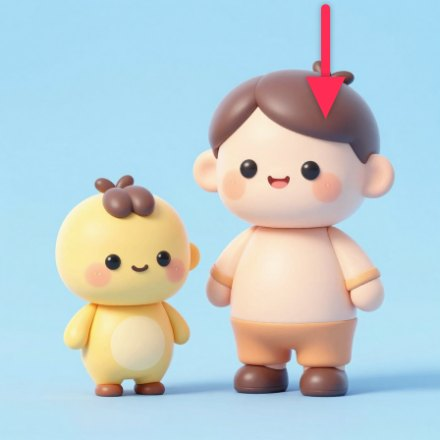
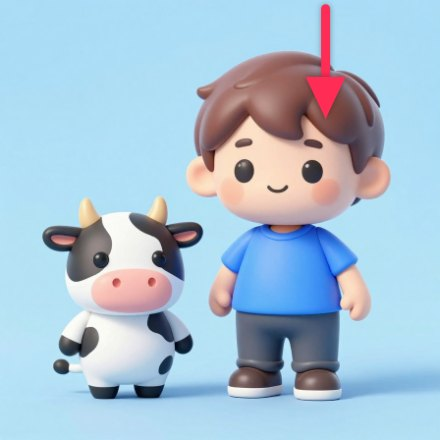
feat: 清除快取掣、每頁設定掣、人+牛圖、8 個 AI 背景圖、植物畫靚、掟生果 1:1 跟手

diff --git a/assets/js/screen-explore.js b/assets/js/screen-explore.js
@@ -132,39 +132,73 @@
   }
 
   /* ----------------------------------------------------- 遮擋物（草／水草／樹叢） */
+  /* 遮住影子嘅前景植物：幾棵分開嘅植物，中間留空隙（影子會喺空隙見到） */
   function occluderSvg(theme) {
-    // 注意：圖案要填滿整個 viewBox（0–100），咁「遮擋高度」先等於真實覆蓋高度
     if (theme === 'underwater') {
-      return `<svg viewBox="0 0 100 100" preserveAspectRatio="none">
-        <path d="M4 100 Q0 46 10 4 Q14 -2 18 6 Q14 52 14 100 Z" fill="#1b7a5a"/>
-        <path d="M22 100 Q16 44 28 8 Q33 0 37 12 Q30 56 32 100 Z" fill="#2e9e74"/>
-        <path d="M44 100 Q40 40 52 6 Q57 -2 61 10 Q54 54 56 100 Z" fill="#1b7a5a"/>
-        <path d="M66 100 Q62 46 74 10 Q79 2 83 14 Q76 56 78 100 Z" fill="#3cb389"/>
-        <path d="M86 100 Q84 52 92 16 Q96 6 100 16 Q94 60 96 100 Z" fill="#2e9e74"/>
-        <ellipse cx="30" cy="72" rx="16" ry="10" fill="#43aa8b" opacity=".85"/>
-        <ellipse cx="70" cy="58" rx="14" ry="9" fill="#43aa8b" opacity=".85"/>
+      return `<svg viewBox="0 0 100 100" preserveAspectRatio="none" class="occ">
+        <defs>
+          <linearGradient id="sw1" x1="0" y1="1" x2="0" y2="0">
+            <stop offset="0" stop-color="#126b4d"/><stop offset=".5" stop-color="#35b07a"/><stop offset="1" stop-color="#8ce8b4"/>
+          </linearGradient>
+          <linearGradient id="sw2" x1="0" y1="1" x2="0" y2="0">
+            <stop offset="0" stop-color="#1a7a58"/><stop offset=".55" stop-color="#4ac48b"/><stop offset="1" stop-color="#b8f5cf"/>
+          </linearGradient>
+        </defs>
+        <g>
+          <path d="M5 100 C2 78 4 58 10 40 C12 34 16 36 15 43 C10 62 9 80 12 100 Z" fill="url(#sw1)"/>
+          <path d="M17 100 C14 70 17 44 25 22 C28 15 33 18 31 27 C24 48 22 74 26 100 Z" fill="url(#sw2)"/>
+          <path d="M35 100 C33 80 37 60 45 42 C48 36 52 39 50 46 C43 64 41 82 45 100 Z" fill="url(#sw1)"/>
+          <path d="M59 100 C57 72 61 46 70 26 C73 19 78 22 76 31 C69 52 66 76 70 100 Z" fill="url(#sw2)"/>
+          <path d="M81 100 C79 80 83 58 90 40 C93 34 97 37 95 44 C89 62 87 82 91 100 Z" fill="url(#sw1)"/>
+          <ellipse cx="18" cy="97" rx="20" ry="7" fill="#0e5c42" opacity=".75"/>
+          <ellipse cx="72" cy="97" rx="22" ry="7" fill="#0e5c42" opacity=".75"/>
+          <ellipse cx="24" cy="34" rx="2.4" ry="6" fill="#ffffff" opacity=".22"/>
+          <ellipse cx="68" cy="38" rx="2.4" ry="6" fill="#ffffff" opacity=".2"/>
+        </g>
       </svg>`;
     }
     if (theme === 'forest') {
-      return `<svg viewBox="0 0 100 100" preserveAspectRatio="none">
-        <ellipse cx="20" cy="52" rx="30" ry="46" fill="#2e7d32"/>
-        <ellipse cx="52" cy="44" rx="34" ry="44" fill="#43a047"/>
-        <ellipse cx="82" cy="54" rx="28" ry="44" fill="#2e7d32"/>
-        <ellipse cx="34" cy="82" rx="34" ry="24" fill="#1b5e20"/>
-        <ellipse cx="72" cy="86" rx="30" ry="22" fill="#388e3c"/>
-        <ellipse cx="52" cy="20" rx="16" ry="14" fill="#66bb6a" opacity=".9"/>
-        <ellipse cx="18" cy="24" rx="12" ry="12" fill="#66bb6a" opacity=".7"/>
+      return `<svg viewBox="0 0 100 100" preserveAspectRatio="none" class="occ">
+        <defs>
+          <radialGradient id="bush1" cx=".42" cy=".28" r=".85">
+            <stop offset="0" stop-color="#a8ec9a"/><stop offset=".5" stop-color="#4caf50"/><stop offset="1" stop-color="#1f5b24"/>
+          </radialGradient>
+          <radialGradient id="bush2" cx=".45" cy=".3" r=".85">
+            <stop offset="0" stop-color="#c2f2ac"/><stop offset=".5" stop-color="#5cbf5f"/><stop offset="1" stop-color="#255f28"/>
+          </radialGradient>
+        </defs>
+        <g>
+          <ellipse cx="17" cy="84" rx="19" ry="24" fill="url(#bush1)"/>
+          <ellipse cx="36" cy="90" rx="16" ry="18" fill="url(#bush2)"/>
+          <ellipse cx="60" cy="86" rx="18" ry="22" fill="url(#bush1)"/>
+          <ellipse cx="82" cy="90" rx="15" ry="18" fill="url(#bush2)"/>
+          <ellipse cx="24" cy="66" rx="7" ry="5" fill="#d9ffb0" opacity=".55"/>
+          <ellipse cx="66" cy="70" rx="6" ry="4" fill="#d9ffb0" opacity=".5"/>
+          <circle cx="46" cy="96" r="2" fill="#8fe08f" opacity=".8"/>
+          <circle cx="74" cy="96" r="1.7" fill="#8fe08f" opacity=".7"/>
+        </g>
       </svg>`;
     }
-    // grass
-    return `<svg viewBox="0 0 100 100" preserveAspectRatio="none">
-      <path d="M2 100 Q0 44 8 2 Q11 -4 14 4 Q10 48 12 100 Z" fill="#3d7a1f"/>
-      <path d="M16 100 Q14 38 24 0 Q28 -6 31 4 Q26 46 28 100 Z" fill="#6ab04c"/>
-      <path d="M32 100 Q31 46 42 4 Q46 -4 49 6 Q42 50 44 100 Z" fill="#3d7a1f"/>
-      <path d="M48 100 Q47 40 58 2 Q62 -6 65 4 Q58 48 60 100 Z" fill="#6ab04c"/>
-      <path d="M64 100 Q63 46 74 6 Q78 -2 81 8 Q74 52 76 100 Z" fill="#3d7a1f"/>
-      <path d="M80 100 Q80 44 90 10 Q94 2 97 12 Q90 56 92 100 Z" fill="#6ab04c"/>
-      <path d="M0 100 Q20 84 50 88 Q80 92 100 100 Z" fill="#2f6b1a"/>
+    // grass / savanna：幾條草葉，中間有罅
+    return `<svg viewBox="0 0 100 100" preserveAspectRatio="none" class="occ">
+      <defs>
+        <linearGradient id="gr1" x1="0" y1="1" x2="0" y2="0">
+          <stop offset="0" stop-color="#2f6315"/><stop offset=".55" stop-color="#6cb033"/><stop offset="1" stop-color="#c7e86a"/>
+        </linearGradient>
+        <linearGradient id="gr2" x1="0" y1="1" x2="0" y2="0">
+          <stop offset="0" stop-color="#3f7d1c"/><stop offset=".5" stop-color="#7cc13f"/><stop offset="1" stop-color="#e0f29a"/>
+        </linearGradient>
+      </defs>
+      <g>
+        <path d="M6 100 C4 76 8 54 16 34 C19 27 23 30 21 39 C14 58 12 80 16 100 Z" fill="url(#gr1)"/>
+        <path d="M22 100 C20 68 25 44 34 24 C37 17 41 21 39 30 C31 51 28 76 32 100 Z" fill="url(#gr2)"/>
+        <path d="M40 100 C38 80 43 60 51 42 C54 36 58 39 56 46 C49 64 47 82 51 100 Z" fill="url(#gr1)"/>
+        <path d="M58 100 C56 66 61 42 70 22 C73 15 77 19 75 28 C67 49 64 76 68 100 Z" fill="url(#gr2)"/>
+        <path d="M76 100 C74 78 79 56 87 36 C90 29 94 32 92 41 C85 60 83 82 87 100 Z" fill="url(#gr1)"/>
+        <path d="M6 100 C24 92 46 94 66 96 C80 98 90 99 96 100 Z" fill="#2a5c12"/>
+        <ellipse cx="30" cy="40" rx="3" ry="6" fill="#ffffff" opacity=".2"/>
+        <ellipse cx="72" cy="46" rx="2.6" ry="5" fill="#ffffff" opacity=".18"/>
+      </g>
     </svg>`;
   }
 

diff --git a/assets/css/feed.css b/assets/css/feed.css
@@ -315,3 +315,53 @@
   -webkit-tap-highlight-color: transparent;
 }
 .beat-hit[hidden] { display: none !important; }
+
+/* ===== 餵食畫面：同一個地方背景圖 ===== */
+#screen-feed.feed-beach {
+  background-image: linear-gradient(180deg, rgba(24, 12, 44, 0.28), rgba(24, 12, 44, 0.55)), url('../img/scenes/beach.jpg');
+  background-size: cover;
+  background-position: center bottom;
+  background-repeat: no-repeat;
+}
+#screen-feed.feed-sea {
+  background-image: linear-gradient(180deg, rgba(24, 12, 44, 0.28), rgba(24, 12, 44, 0.55)), url('../img/scenes/sea.jpg');
+  background-size: cover;
+  background-position: center bottom;
+  background-repeat: no-repeat;
+}
+#screen-feed.feed-underwater {
+  background-image: linear-gradient(180deg, rgba(24, 12, 44, 0.28), rgba(24, 12, 44, 0.55)), url('../img/scenes/underwater.jpg');
+  background-size: cover;
+  background-position: center bottom;
+  background-repeat: no-repeat;
+}
+#screen-feed.feed-river {
+  background-image: linear-gradient(180deg, rgba(24, 12, 44, 0.28), rgba(24, 12, 44, 0.55)), url('../img/scenes/river.jpg');
+  background-size: cover;
+  background-position: center bottom;
+  background-repeat: no-repeat;
+}
+#screen-feed.feed-forest {
+  background-image: linear-gradient(180deg, rgba(24, 12, 44, 0.28), rgba(24, 12, 44, 0.55)), url('../img/scenes/forest.jpg');
+  background-size: cover;
+  background-position: center bottom;
+  background-repeat: no-repeat;
+}
+#screen-feed.feed-grass {
+  background-image: linear-gradient(180deg, rgba(24, 12, 44, 0.28), rgba(24, 12, 44, 0.55)), url('../img/scenes/grass.jpg');
+  background-size: cover;
+  background-position: center bottom;
+  background-repeat: no-repeat;
+}
+#screen-feed.feed-desert {
+  background-image: linear-gradient(180deg, rgba(24, 12, 44, 0.28), rgba(24, 12, 44, 0.55)), url('../img/scenes/desert.jpg');
+  background-size: cover;
+  background-position: center bottom;
+  background-repeat: no-repeat;
+}
+#screen-feed.feed-snow {
+  background-image: linear-gradient(180deg, rgba(24, 12, 44, 0.28), rgba(24, 12, 44, 0.55)), url('../img/scenes/snow.jpg');
+  background-size: cover;
+  background-position: center bottom;
+  background-repeat: no-repeat;
+}

diff --git a/assets/css/games.css b/assets/css/games.css
@@ -710,3 +710,56 @@
 .gr-icon.gr-d { background: linear-gradient(160deg, #ffe0b2, #ffb74d); }
 .prompt-listen { font-size: clamp(52px, 16vw, 96px); line-height: 1; display: block; text-align: center; animation: listenPulse 1.6s ease-in-out infinite; }
 @keyframes listenPulse { 0%, 100% { transform: scale(1); opacity: .95; } 50% { transform: scale(1.08); opacity: 1; } }
+
+/* ===== 8 個地方嘅 AI 背景圖（cover，保留漸變做 fallback） ===== */
+.scene.theme-beach {
+  background-image: url('../img/scenes/beach.jpg');
+  background-size: cover;
+  background-position: center bottom;
+  background-repeat: no-repeat;
+}
+.scene.theme-sea {
+  background-image: url('../img/scenes/sea.jpg');
+  background-size: cover;
+  background-position: center bottom;
+  background-repeat: no-repeat;
+}
+.scene.theme-underwater {
+  background-image: url('../img/scenes/underwater.jpg');
+  background-size: cover;
+  background-position: center bottom;
+  background-repeat: no-repeat;
+}
+.scene.theme-river {
+  background-image: url('../img/scenes/river.jpg');
+  background-size: cover;
+  background-position: center bottom;
+  background-repeat: no-repeat;
+}
+.scene.theme-forest {
+  background-image: url('../img/scenes/forest.jpg');
+  background-size: cover;
+  background-position: center bottom;
+  background-repeat: no-repeat;
+}
+.scene.theme-grass {
+  background-image: url('../img/scenes/grass.jpg');
+  background-size: cover;
+  background-position: center bottom;
+  background-repeat: no-repeat;
+}
+.scene.theme-desert {
+  background-image: url('../img/scenes/desert.jpg');
+  background-size: cover;
+  background-position: center bottom;
+  background-repeat: no-repeat;
+}
+.scene.theme-snow {
+  background-image: url('../img/scenes/snow.jpg');
+  background-size: cover;
+  background-position: center bottom;
+  background-repeat: no-repeat;
+}
+
+/* 用咗真背景圖就唔需要舊嘅 SVG 裝飾 */
+.scene .scene-deco .deco { display: none !important; }

diff --git a/assets/js/data-vocab.js b/assets/js/data-vocab.js
@@ -184,7 +184,7 @@ window.VOCAB = {
       { zh: '姊', yue: '姐姐', py: 'zǐ', en: 'big sister', art: 'sister', arrow: 0.74, img: 'two cute cartoon girls standing side by side: on the LEFT a SMALL toddler girl in purple, on the RIGHT a BIG taller girl in red' },
       { zh: '男', yue: '男仔', py: 'nán', en: 'boy', art: 'boy', arrow: 0.74, img: 'two cute cartoon children standing side by side: on the LEFT a girl in a pink dress, on the RIGHT a boy in a blue t-shirt' },
       { zh: '女', yue: '女仔', py: 'nǚ', en: 'girl', art: 'girl', arrow: 0.74, img: 'two cute cartoon children standing side by side: on the LEFT a boy in a blue t-shirt, on the RIGHT a girl in a pink dress' },
-      { zh: '人', yue: '人', py: 'rén', en: 'person', art: 'person', arrow: 0.74, img: 'two cute cartoon people standing side by side: on the LEFT a small child, on the RIGHT a grown up adult' },
+      { zh: '人', yue: '人', py: 'rén', en: 'person', art: 'person', arrow: 0.74, img: 'a cute cartoon HUMAN person standing on the RIGHT: skin colour face, brown hair, blue t-shirt, grey trousers; a cute cartoon COW standing on the LEFT' },
       { zh: '小朋友', yue: '小朋友', py: 'xiǎo péng yǒu', en: 'child', art: 'child', arrow: 0.74, img: 'two cute cartoon people standing side by side: on the LEFT a tall grown up adult, on the RIGHT a small child' },
     ],
   },

diff --git a/assets/js/core.js b/assets/js/core.js
@@ -110,6 +110,26 @@
 
   function registerScreen(id, hooks) { screenHooks[id] = hooks || {}; }
 
+  const GEAR_HIDE = new Set(['boot', 'quiz', 'feed', 'reveal']);
+  function updateGear() {
+    let el = document.getElementById('gear-fab');
+    if (!el) {
+      el = document.createElement('button');
+      el.id = 'gear-fab';
+      el.className = 'gear-fab';
+      el.setAttribute('aria-label', '設定');
+      el.textContent = '⚙';
+      el.addEventListener('click', (ev) => {
+        ev.preventDefault();
+        ev.stopPropagation();
+        haptic();
+        if (state.screen !== 'settings') go('settings');
+      });
+      document.body.appendChild(el);
+    }
+    el.hidden = GEAR_HIDE.has(state.screen);
+  }
+
   function go(id, opts) {
     opts = opts || {};
     if (currentScreen === id && !opts.force) {
@@ -135,6 +155,7 @@
     }
     const h = screenHooks[id];
     if (h && h.enter) { try { h.enter(opts); } catch (e) { console.error(e); } }
+    updateGear();
     // 每次轉畫面之後套用顯示語言
     try { if (window.I18N && window.I18N.applyLang) setTimeout(() => window.I18N.applyLang(), 0); } catch (e) {}
   }

diff --git a/assets/js/screen-settings.js b/assets/js/screen-settings.js
@@ -104,6 +104,24 @@
         圖鑑：${st.got} / ${st.total} 隻動物（${st.pct}%）<br>
         餵食次數：${p.feedings || 0}　答題：${p.quizzes || 0} 次`;
     }
+    const cc = $('#set-clearcache');
+    if (cc) cc.addEventListener('click', async () => {
+      C.haptic();
+      cc.disabled = true;
+      cc.textContent = '清理中…';
+      try {
+        if ('serviceWorker' in navigator) {
+          const regs = await navigator.serviceWorker.getRegistrations();
+          await Promise.all(regs.map((r) => r.unregister()));
+        }
+        if (window.caches) {
+          const keys = await caches.keys();
+          await Promise.all(keys.map((k) => caches.delete(k)));
+        }
+      } catch (e) { console.warn('clear cache failed', e); }
+      const url = location.pathname + '?fresh=' + Date.now();
+      location.replace(url);
+    });
     const reset = $('#set-reset');
     if (reset) {
       reset.onclick = () => {

diff --git a/assets/js/screen-feed.js b/assets/js/screen-feed.js
@@ -722,9 +722,11 @@
         const dy = e.clientY - drag.y;
         basket.classList.remove('pulling');
         if (Math.abs(dy) > 26 && dy < 0) {
+          // 掟去手指放開嘅位置（1:1），限制喺圈附近
+          const cur = (F.circle && F.circle.x) ? F.circle : { x: g.cx, y: g.cy };
           const target = {
-            x: clamp(g.cx + dx * 2.6, g.cx - g.r * 1.6, g.cx + g.r * 1.6),
-            y: clamp(g.cy + dy * 1.2, g.cy - g.r * 1.1, g.cy + g.r * 1.1),
+            x: clamp(cur.x + dx * 0.95, cur.x - g.r * 1.5, cur.x + g.r * 1.5),
+            y: clamp(cur.y + dy * 0.95, cur.y - g.r * 1.2, cur.y + g.r * 1.2),
           };
           throwFruit(target);
         } else if (Math.hypot(dx, dy) < 20) {

diff --git a/assets/css/layout.css b/assets/css/layout.css
@@ -572,3 +572,24 @@ img.ai-shadow {
   background: #2a2320;
   opacity: 0.85;
 }
+
+/* 每頁都有嘅設定掣（右下角） */
+.gear-fab {
+  position: fixed;
+  right: 14px;
+  bottom: calc(14px + env(safe-area-inset-bottom, 0px));
+  width: 52px;
+  height: 52px;
+  border-radius: 50%;
+  border: 0;
+  display: grid;
+  place-items: center;
+  font-size: 24px;
+  background: rgba(255, 255, 255, 0.92);
+  box-shadow: 0 6px 18px rgba(40, 24, 80, 0.22);
+  z-index: 60;
+  cursor: pointer;
+  -webkit-tap-highlight-color: transparent;
+}
+.gear-fab:active { transform: scale(0.94); }
+.gear-fab[hidden] { display: none !important; }

diff --git a/index.html b/index.html
@@ -271,6 +271,8 @@
         <div class="set-group">
           <h3>進度</h3>
           <p class="set-note" id="set-progress-note"></p>
+          <button class="btn ghost" id="set-clearcache">🧹 清除快取並重新載入</button>
+          <p class="set-note">見到舊圖片／舊版面就撳呢個（唔會影響進度）</p>
           <button class="btn danger" id="set-reset">清除所有進度</button>
         </div>
         <div class="set-group">

diff --git a/assets/js/ai-index.js b/assets/js/ai-index.js
@@ -1,6 +1,6 @@
 /* 自動產生：AI 圖索引（動物 hero / cutout / 題目圖） */
 window.AI_INDEX = {
- "version": "627164006",
+ "version": "673109636",
  "heroes": {
   "albatross": [
    "assets/img/animals/hero-web/albatross_s1.jpg"
